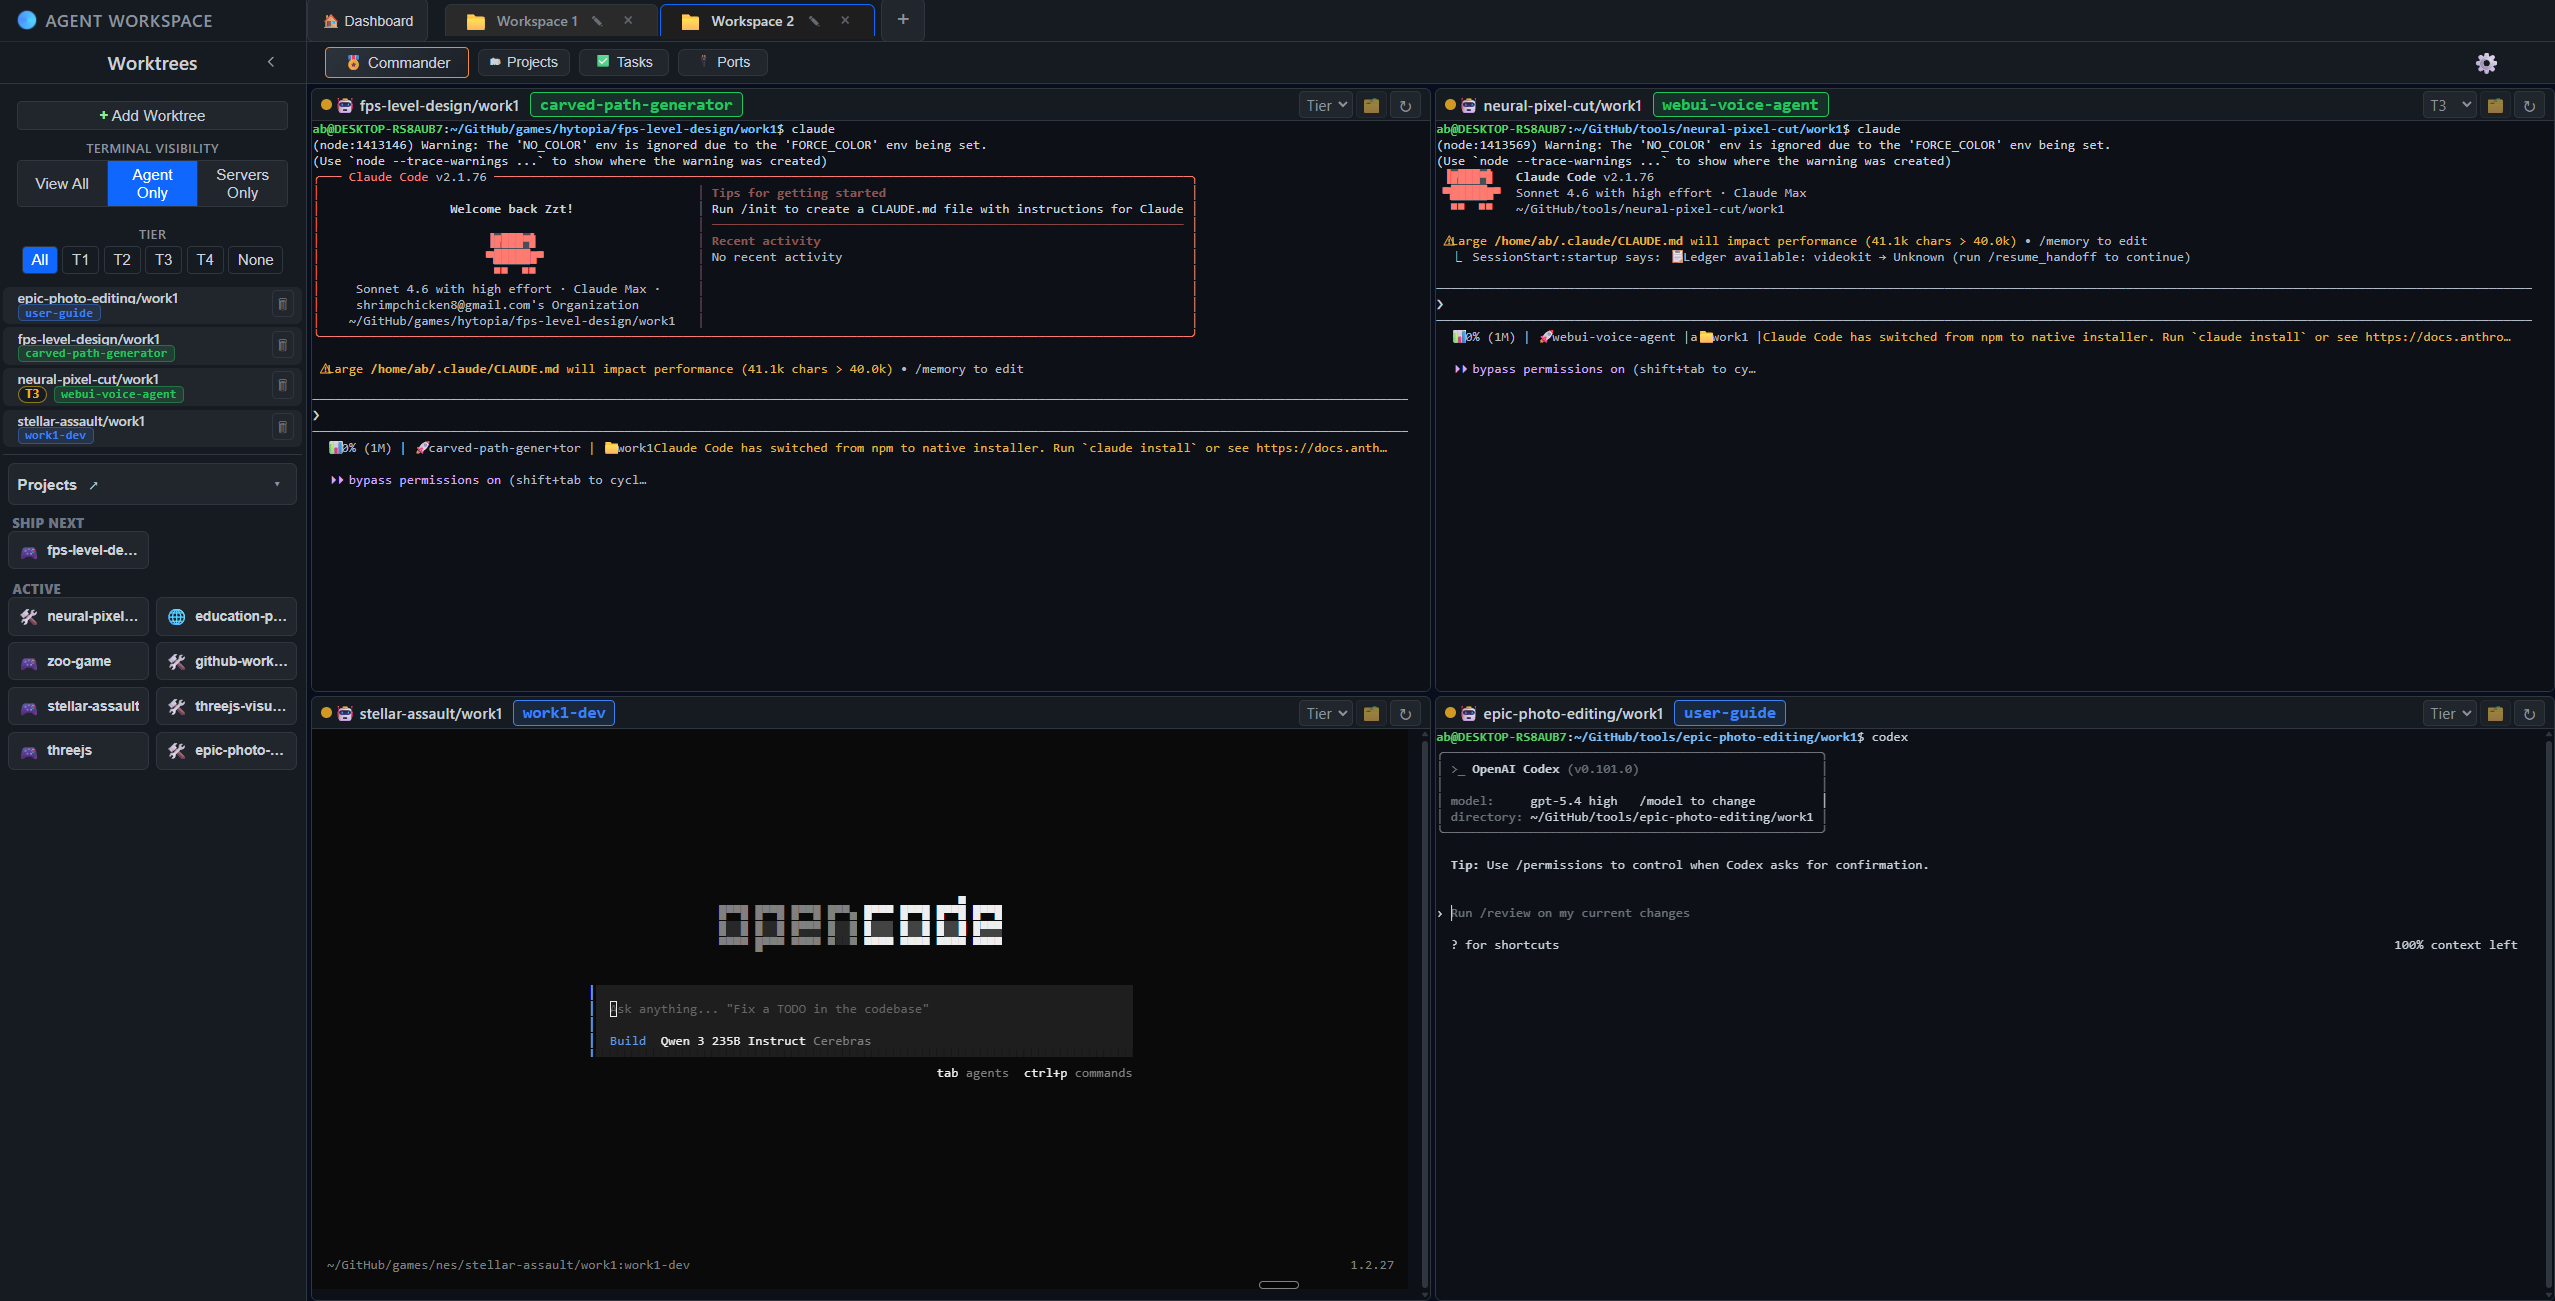
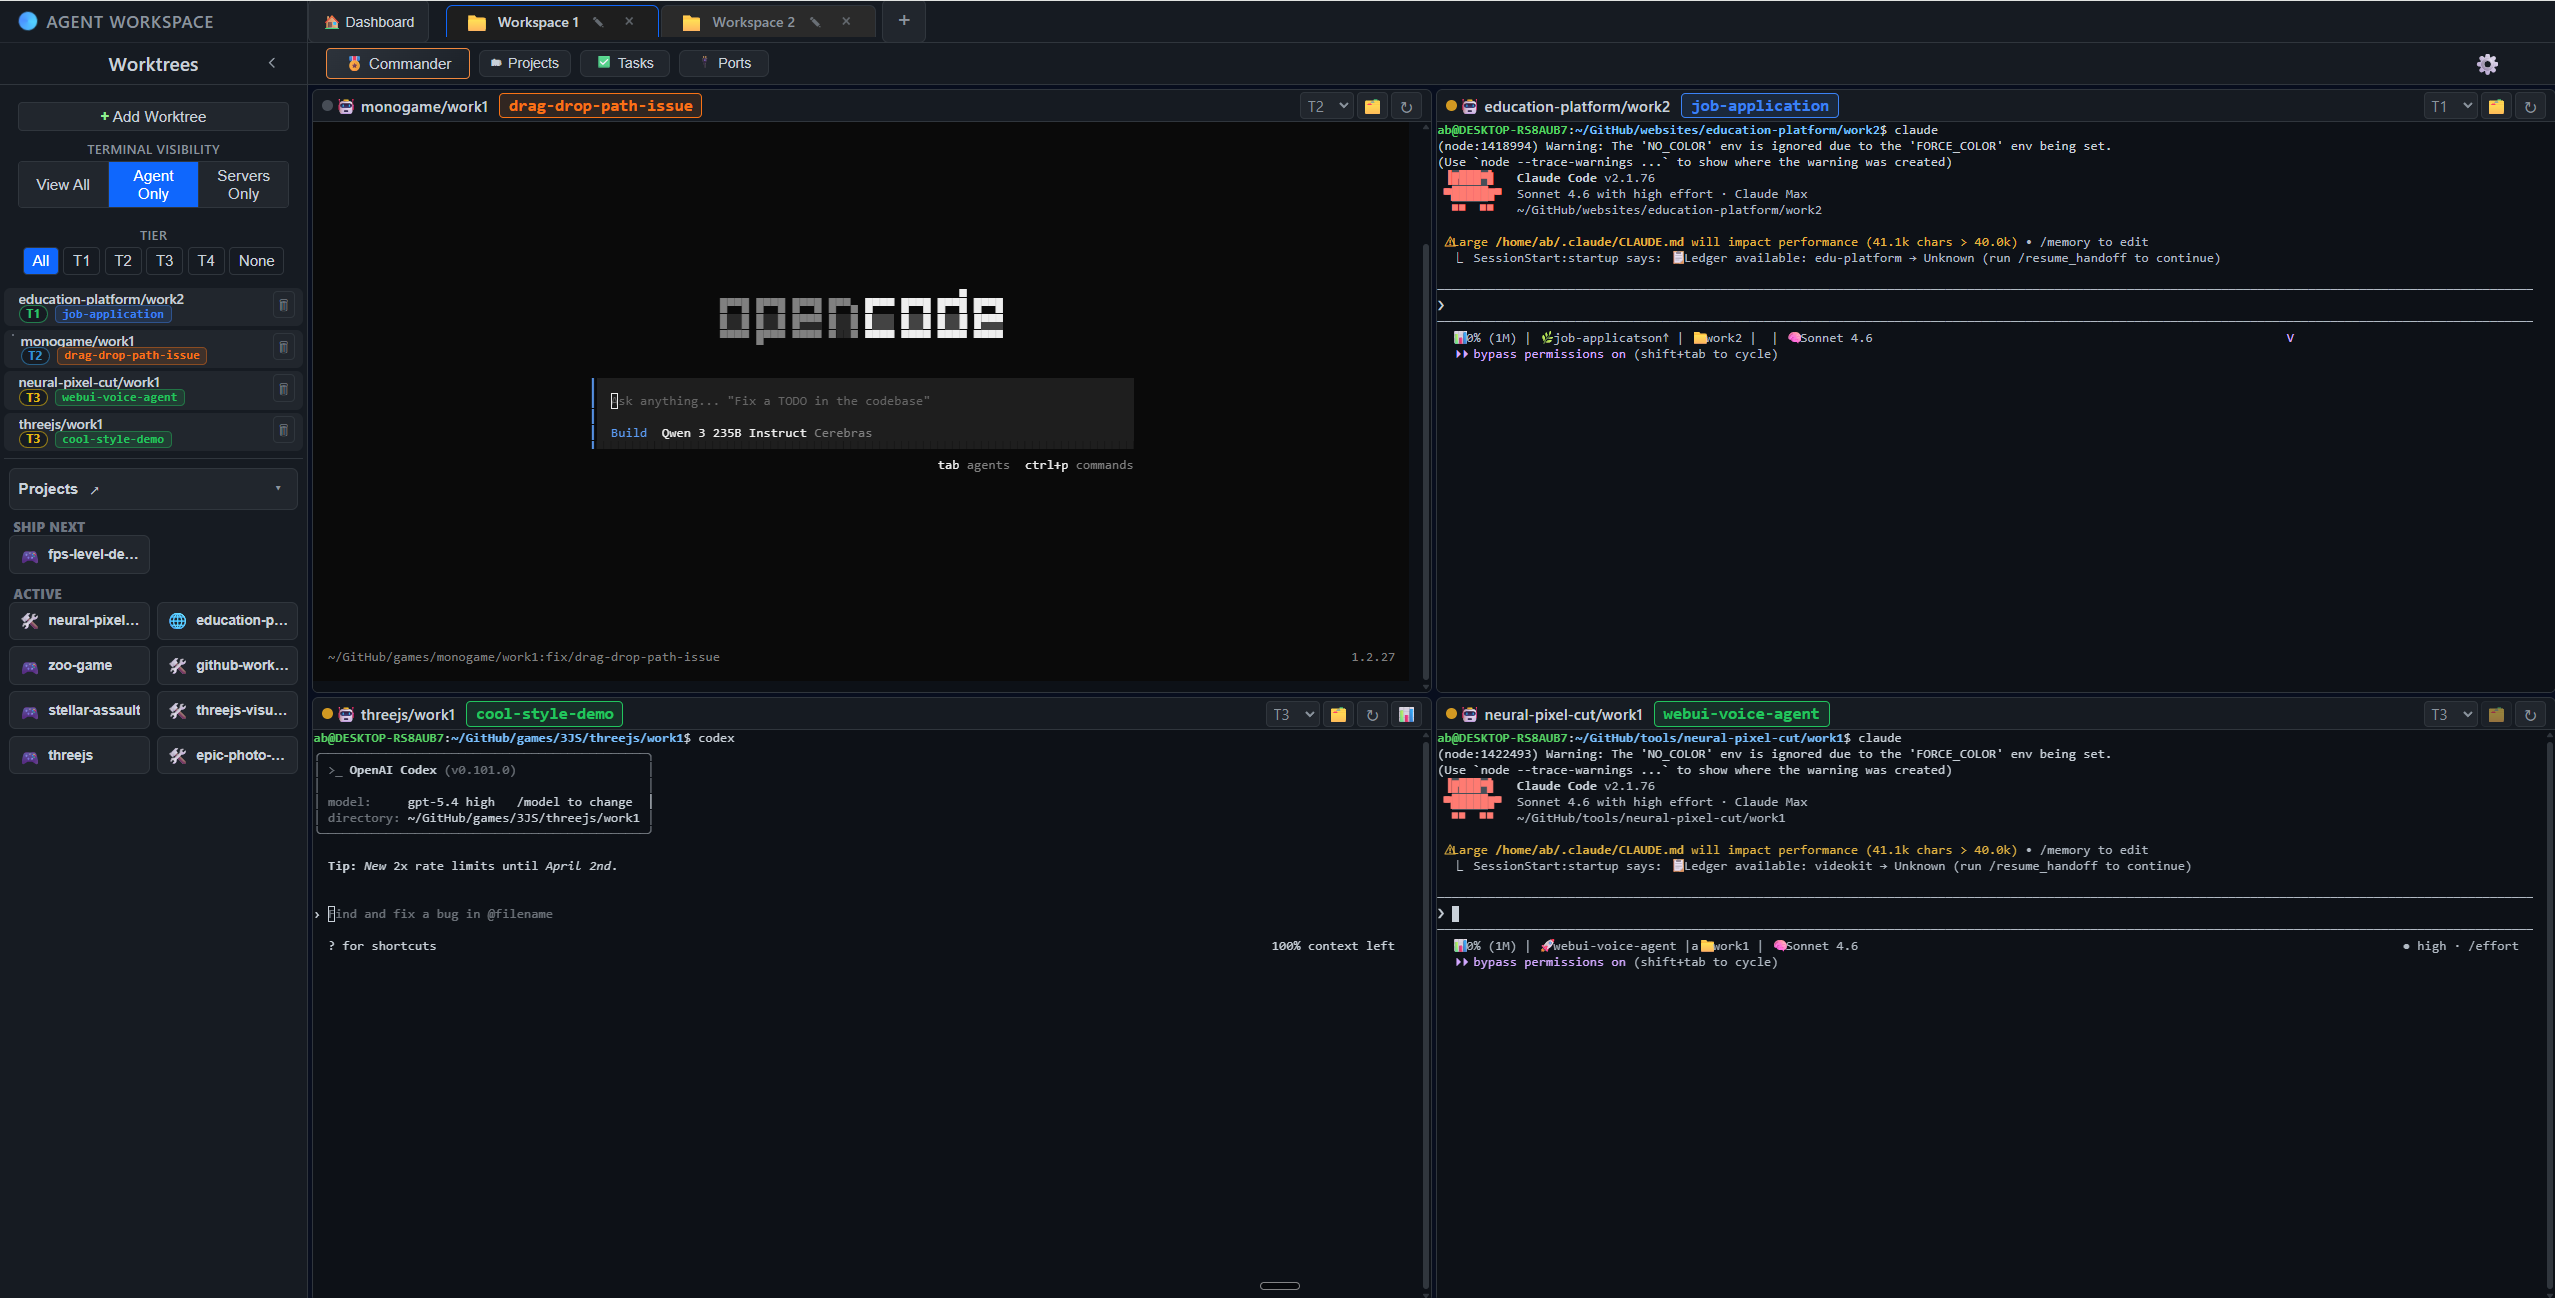
feat(site): refine hero and workspace visuals

diff --git a/site/index.html b/site/index.html
@@ -83,12 +83,8 @@
 
       <div class="hero-showcase reveal">
         <div class="glass-panel main-ui">
-          <div class="panel-header">
-            <div class="traffic-lights"><i></i><i></i><i></i></div>
-            <div class="address-bar">workspace://local/orchestrator</div>
-          </div>
           <div class="panel-body">
-            <img src="assets/hero-homepage-windows.png" alt="Agent Workspace running on Windows with multi-agent terminal grid" class="ui-img">
+            <img src="assets/home-page-windows.png" alt="Agent Workspace running on Windows with multi-agent terminal grid" class="ui-img">
             <div class="overlay-scanline"></div>
           </div>
         </div>
@@ -258,6 +254,16 @@
 
       <article class="feature-card reveal" style="--delay: 0.1s">
         <div class="feature-copy">
+          <h3 class="feature-title">Agent + Server Windows per Worktree</h3>
+          <p class="feature-desc">Run an agent window and a server window side by side in the same worktree. Keep coding/review in the agent pane while the server pane runs your website, game runtime, tests, or any CLI command from that exact folder.</p>
+        </div>
+        <figure class="feature-shot contain">
+          <img src="assets/server-run-windows.png" alt="Agent and server windows running side by side in the same worktree">
+        </figure>
+      </article>
+
+      <article class="feature-card reveal" style="--delay: 0.15s">
+        <div class="feature-copy">
           <h3 class="feature-title">Built-in Diff Viewer + Review Console</h3>
           <p class="feature-desc">Review diffs in-app with agent and server context still visible in the same workflow. Use action buttons to jump directly to the GitHub PR or GitHub diff, re-prompt agents from review context, run verification steps, and merge once checks pass.</p>
         </div>
@@ -289,7 +295,7 @@
         </div>
       </article>
 
-      <article class="feature-card reveal" style="--delay: 0.15s">
+      <article class="feature-card reveal" style="--delay: 0.2s">
         <div class="feature-copy">
           <h3 class="feature-title">Commander</h3>
           <p class="feature-desc">Use a top-level commander terminal to orchestrate the rest of your sessions: launch agents, fan out prompts, re-run commands, and coordinate review or merge flows from one control point.</p>
@@ -299,9 +305,9 @@
         </figure>
       </article>
 
-      <article class="feature-card reveal" style="--delay: 0.2s">
+      <article class="feature-card reveal" style="--delay: 0.25s">
         <div class="feature-copy">
-          <h3 class="feature-title">Tasks Section</h3>
+          <h3 class="feature-title">Tasks Board</h3>
           <p class="feature-desc">Manage task flow in one place with board and list views, tier filters (T1-T4), provider toggles, and automation controls so you can route work to the right agent quickly.</p>
         </div>
         <figure class="feature-shot contain">
@@ -309,7 +315,7 @@
         </figure>
       </article>
 
-      <article class="feature-card reveal" style="--delay: 0.225s">
+      <article class="feature-card reveal" style="--delay: 0.3s">
         <div class="feature-copy">
           <h3 class="feature-title">Tier System</h3>
           <p class="feature-desc">Keep work organized by priority with a dedicated tier lane (T1-T4), plus quick filters to isolate focus work, reviews, and background tasks from the same worktree sidebar.</p>
@@ -319,9 +325,9 @@
         </figure>
       </article>
 
-      <article class="feature-card reveal" id="projects" style="--delay: 0.25s">
+      <article class="feature-card reveal" id="projects" style="--delay: 0.35s">
         <div class="feature-copy">
-          <h3 class="feature-title">Projects Section</h3>
+          <h3 class="feature-title">Projects Board</h3>
           <p class="feature-desc">Track active and shipped work with the projects board workflow. Keep previous project history visible while new work moves through planning, active implementation, and ship queues.</p>
         </div>
         <figure class="feature-shot contain">
@@ -329,9 +335,9 @@
         </figure>
       </article>
 
-      <article class="feature-card reveal" id="ports" style="--delay: 0.3s">
+      <article class="feature-card reveal" id="ports" style="--delay: 0.4s">
         <div class="feature-copy">
-          <h3 class="feature-title">Ports Section</h3>
+          <h3 class="feature-title">Ports Panel</h3>
           <p class="feature-desc">See the running services list in one place, including assigned ports and owning worktrees. This makes it easy to inspect local stacks, debug collisions, and jump to the right runtime quickly.</p>
         </div>
         <figure class="feature-shot contain">
@@ -339,23 +345,20 @@
         </figure>
       </article>
 
-      <article class="feature-card reveal" id="multitab" style="--delay: 0.35s">
+      <article class="feature-card reveal" id="multitab" style="--delay: 0.45s">
         <div class="feature-copy">
           <h3 class="feature-title">Multi-Tab Workspaces</h3>
           <p class="feature-desc">Open multiple workspaces at once in browser-like tabs. Switch contexts without killing sessions, and keep each workspace state isolated while terminals continue running in the background.</p>
         </div>
         <div class="feature-visual tabs-visual" aria-hidden="true">
           <img class="tab-strip-inline" src="assets/workspace-tabs-windows.png" alt="">
-          <div class="tabs-row">
-            <span class="tab-chip active">Website</span>
-            <span class="tab-chip">API</span>
-            <span class="tab-chip">Infra</span>
-            <span class="tab-chip">Review</span>
-          </div>
-          <div class="tabs-content">
-            <div>website/work1 · Claude</div>
-            <div>website/work2 · Codex</div>
-            <div>website/work3 · Server</div>
+          <div class="tabs-side-by-side">
+            <figure class="tabs-shot">
+              <img src="assets/home-page-windows.png" alt="">
+            </figure>
+            <figure class="tabs-shot">
+              <img src="assets/workspace2-windows.png" alt="">
+            </figure>
           </div>
         </div>
       </article>

diff --git a/site/styles.css b/site/styles.css
@@ -397,57 +397,22 @@ a.btn-glow {
   transform-style: preserve-3d;
   transition: transform 0.5s cubic-bezier(0.2, 0.8, 0.2, 1);
   position: absolute;
-  top: 50%;
+  top: 49%;
   left: 50%;
   width: 120%;
-  margin-left: -60%;
-  margin-top: -35%;
+  margin-left: -62%;
+  margin-top: -36%;
 }
 
 .hero-showcase:hover .glass-panel {
   transform: rotateY(-5deg) rotateX(2deg) scale(1);
 }
 
-.panel-header {
-  background: rgba(0,0,0,0.5);
-  padding: 1rem;
-  display: flex;
-  align-items: center;
-  border-bottom: 1px solid rgba(255,255,255,0.05);
-}
-
-.traffic-lights {
-  display: flex;
-  gap: 8px;
-  margin-right: 1.5rem;
-}
-
-.traffic-lights i {
-  width: 12px;
-  height: 12px;
-  border-radius: 50%;
-  background: #333;
-}
-
-.traffic-lights i:nth-child(1) { background: #ff5f56; }
-.traffic-lights i:nth-child(2) { background: #ffbd2e; }
-.traffic-lights i:nth-child(3) { background: #27c93f; }
-
-.address-bar {
-  flex: 1;
-  background: rgba(255,255,255,0.05);
-  border-radius: 6px;
-  padding: 0.4rem 1rem;
-  font-family: var(--font-mono);
-  font-size: 0.8rem;
-  color: var(--text-muted);
-  text-align: center;
-}
-
 .panel-body {
   position: relative;
   width: 100%;
-  padding-top: 56.25%; /* 16:9 aspect ratio */
+  aspect-ratio: 1705 / 1109;
+  background: #060912;
 }
 
 .ui-img {
@@ -456,8 +421,8 @@ a.btn-glow {
   left: 0;
   width: 100%;
   height: 100%;
-  object-fit: cover;
-  object-position: top;
+  object-fit: contain;
+  object-position: top center;
 }
 
 .overlay-scanline {
@@ -945,7 +910,7 @@ a.btn-glow {
 
 .tab-strip-inline {
   width: 100%;
-  max-width: 620px;
+  max-width: 740px;
   height: auto;
   max-height: 64px;
   object-fit: contain;
@@ -956,38 +921,28 @@ a.btn-glow {
   padding: 0.35rem;
 }
 
-.tabs-row {
-  display: flex;
-  flex-wrap: wrap;
-  gap: 0.45rem;
-}
-
-.tab-chip {
-  border: 1px solid rgba(255, 255, 255, 0.2);
-  border-radius: 10px;
-  background: rgba(255, 255, 255, 0.03);
-  color: #d1d5db;
-  padding: 0.35rem 0.7rem;
-  font-family: var(--font-mono);
-  font-size: 0.75rem;
-}
-
-.tab-chip.active {
-  border-color: rgba(59, 130, 246, 0.5);
-  color: #bfdbfe;
-  background: rgba(37, 99, 235, 0.22);
-}
-
-.tabs-content {
-  border: 1px solid rgba(255, 255, 255, 0.12);
-  border-radius: 10px;
-  background: rgba(2, 6, 23, 0.76);
-  padding: 0.75rem;
+.tabs-side-by-side {
   display: grid;
-  gap: 0.45rem;
-  font-family: var(--font-mono);
-  font-size: 0.76rem;
-  color: #e5e7eb;
+  grid-template-columns: repeat(2, minmax(0, 1fr));
+  gap: 0.75rem;
+}
+
+.tabs-shot {
+  margin: 0;
+  border: 1px solid rgba(255, 255, 255, 0.12);
+  border-radius: 12px;
+  background: rgba(2, 6, 23, 0.76);
+  overflow: hidden;
+  aspect-ratio: 16 / 9;
+}
+
+.tabs-shot img {
+  width: 100%;
+  height: 100%;
+  object-fit: cover;
+  object-position: top center;
+  display: block;
+  background: #060912;
 }
 
 /* Integrations Fluid */
@@ -1706,6 +1661,10 @@ body.legal-page {
   .visual-grid,
   .diff-columns,
   .projects-visual {
+    grid-template-columns: 1fr;
+  }
+
+  .tabs-side-by-side {
     grid-template-columns: 1fr;
   }
 }
